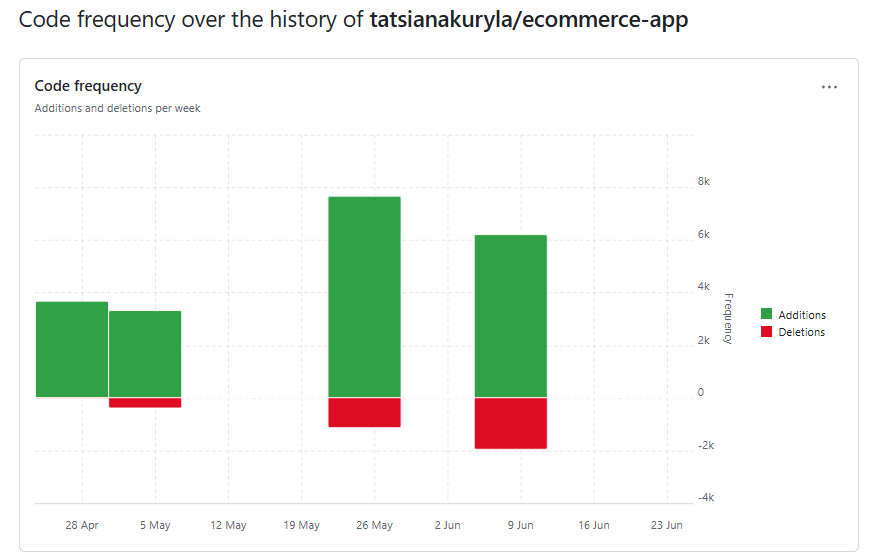
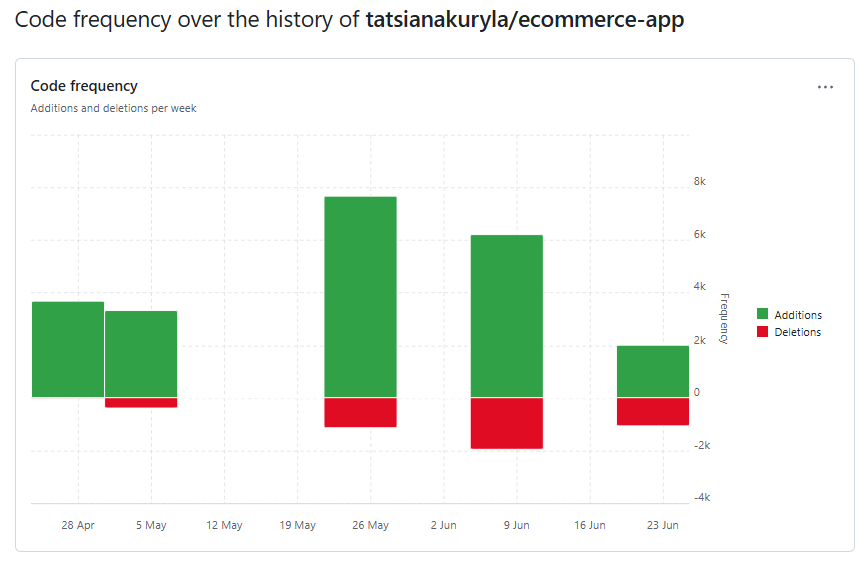
chore: change analitics

diff --git a/index.html b/index.html
@@ -100,7 +100,7 @@
             <ul>
                 <li>Feature-ветки</li>
                 <li>Обязательный code review</li>
-                <li><a href="https://github.com/tatsianakuryla/ecommerce-app/tree/fixes" target="_blank">README с инструкциями по запуску</a></li>
+                <li><a href="https://github.com/tatsianakuryla/ecommerce-app" target="_blank">README с инструкциями по запуску</a></li>
             </ul>
         </section>
 
@@ -118,10 +118,16 @@
         </section>
 
         <section>
+            <img src="./images/results.png" alt="GitHub Results" style="width: 100%; border: 1px solid #ccc; border-radius: 8px;">
+        </section>
+
+        <section>
+            <h2>Contributors</h2>
         <img src="./images/contributors.png" alt="GitHub Contributors график" style="width: 100%; border: 1px solid #ccc; border-radius: 8px;">
         </section>
 
         <section>
+            <h2>Contributors</h2>
             <img src="./images/contributors1.png" alt="GitHub Contributors график" style="width: 100%; border: 1px solid #ccc; border-radius: 8px;">
         </section>
 
@@ -131,8 +137,13 @@
         </section>
 
         <section>
+            <h2>Commits</h2>
+            <img src="./images/commits.png" alt="GitHub Commits" style="width: 100%; border: 1px solid #ccc; border-radius: 8px;">
+        </section>
+
+        <section>
             <h2>Code frequency</h2>
-            <img src="./images/frequency.png" alt="GitHub frequency" style="width: 100%; border: 1px solid #ccc; border-radius: 8px;">
+            <img src="./images/frequency.png" alt="GitHub frequency" style="width: 100%; border: 1px solid #ccc; border-radius: 8px; margin-bottom: -10px">
         </section>
 
         <section>
